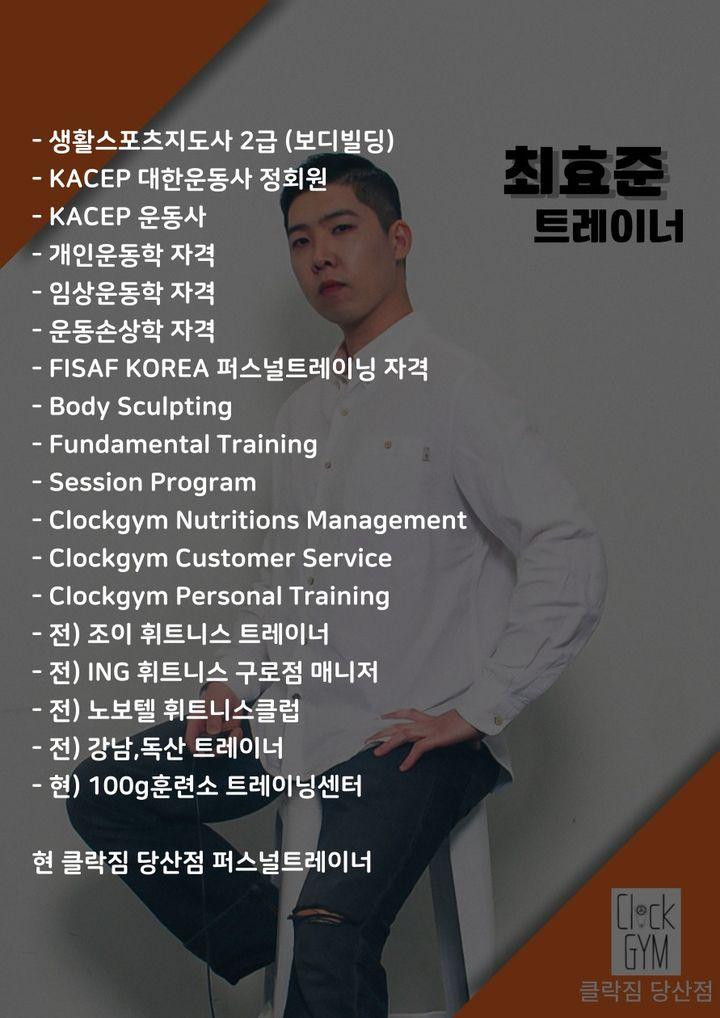
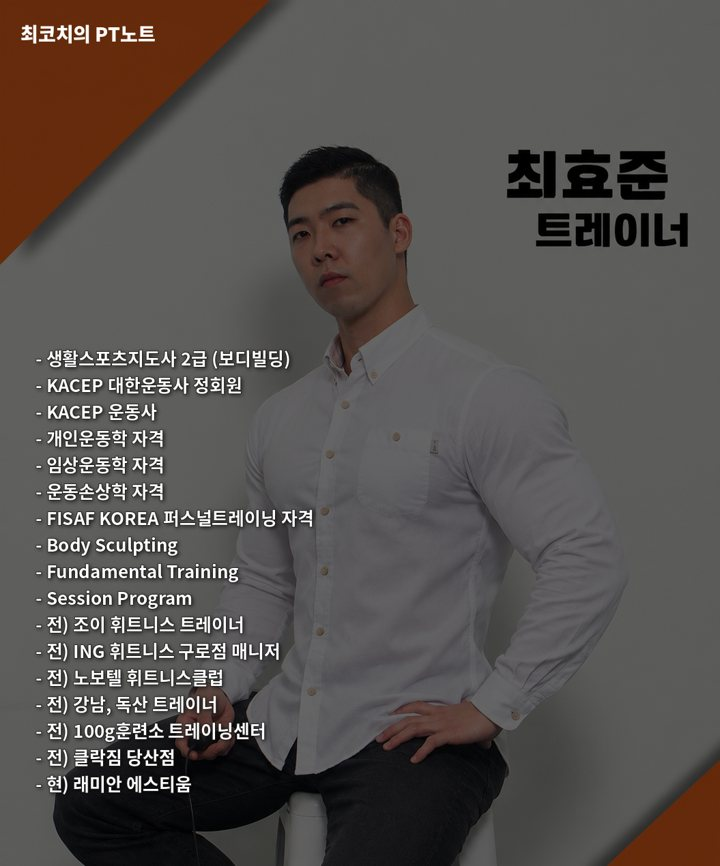
새 소개 포스터 적용, 이력 목록 정리(클락짐 교육 삭제, 전) 클락짐 당산점, 현) 래미안 에스티움)
Claude-Session: https://claude.ai/code/session_01GwxCsfm6riKg3uwFhZxAch

diff --git a/config.js b/config.js
@@ -31,14 +31,12 @@ export const COACH_DEFAULT = {
     "Body Sculpting",
     "Fundamental Training",
     "Session Program",
-    "Clockgym Nutritions Management",
-    "Clockgym Customer Service",
-    "Clockgym Personal Training",
     "전) 조이 휘트니스 트레이너",
     "전) ING 휘트니스 구로점 매니저",
     "전) 노보텔 휘트니스클럽",
     "전) 강남, 독산 트레이너",
-    "현) 100g훈련소 트레이닝센터",
-    "현) 클락짐 당산점 퍼스널트레이너"
+    "전) 100g훈련소 트레이닝센터",
+    "전) 클락짐 당산점",
+    "현) 래미안 에스티움"
   ]
 };

diff --git a/sw.js b/sw.js
@@ -1,4 +1,4 @@
-const CACHE = "ptnote-v11";
+const CACHE = "ptnote-v12";
 const SHELL = ["./", "index.html", "app.js", "config.js", "manifest.webmanifest", "icon-192.png", "icon-512.png", "apple-touch-icon.png", "coach-poster.jpg"];
 self.addEventListener("install", e => { e.waitUntil(caches.open(CACHE).then(c => c.addAll(SHELL)).then(() => self.skipWaiting())); });
 self.addEventListener("activate", e => { e.waitUntil(caches.keys().then(ks => Promise.all(ks.filter(k => k !== CACHE).map(k => caches.delete(k)))).then(() => self.clients.claim())); });
